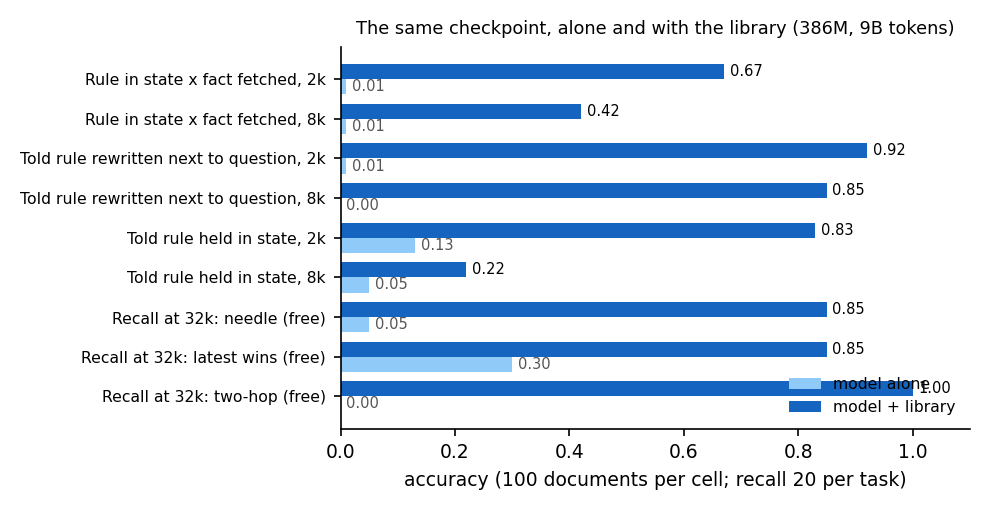
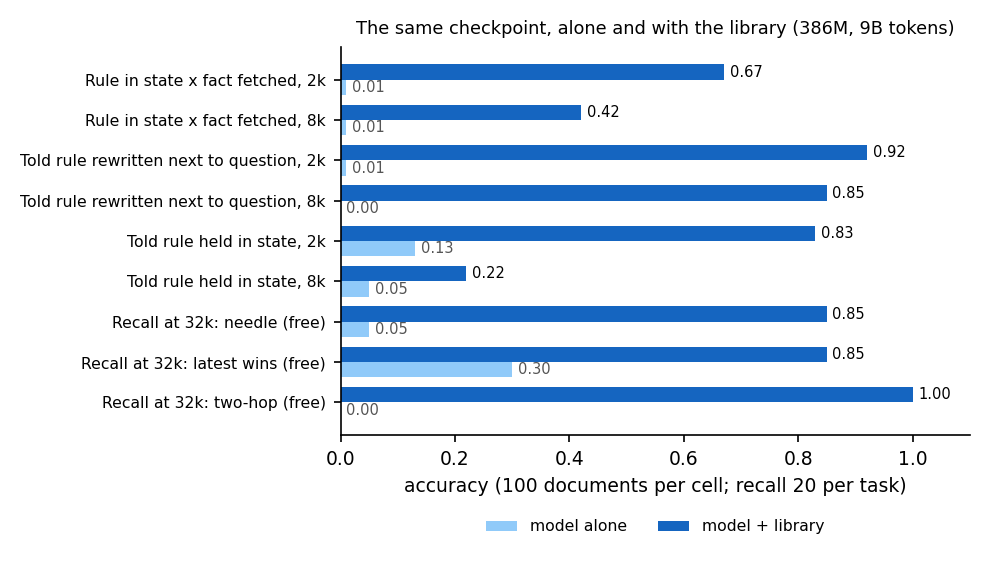
paper fig9: legend below the plot

Changed region(s): [[0.0, 0.0294, 0.9697, 0.9706]]

diff --git a/v16/paper/make_figures.py b/v16/paper/make_figures.py
@@ -160,13 +160,13 @@ def fig9_package():
     c = D["pkg_suite_m9"]["cells"]; names = list(c)
     bare = [c[n]["bare"] for n in names]; pk = [c[n]["package"] for n in names]
     y = np.arange(len(names)); h = 0.38
-    fig, ax = plt.subplots(figsize=(6.6, 3.4))
+    fig, ax = plt.subplots(figsize=(6.6, 3.8))
     ax.barh(y + h / 2, bare, h, color="#90caf9", label="model alone")
     ax.barh(y - h / 2, pk, h, color="#1565c0", label="model + library")
     for i, (b, p) in enumerate(zip(bare, pk)):
         ax.text(p + 0.01, i - h / 2, f"{p:.2f}", va="center", fontsize=7); ax.text(b + 0.01, i + h / 2, f"{b:.2f}", va="center", fontsize=7, color="#555")
     ax.set_yticks(y); ax.set_yticklabels(names, fontsize=7.5); ax.invert_yaxis(); ax.set_xlim(0, 1.1)
-    ax.set_xlabel("accuracy (100 documents per cell; recall 20 per task)"); ax.legend(frameon=False, fontsize=7.5, loc="lower right")
+    ax.set_xlabel("accuracy (100 documents per cell; recall 20 per task)"); ax.legend(frameon=False, fontsize=7.5, loc="upper center", bbox_to_anchor=(0.5, -0.18), ncol=2)
     ax.set_title("The same checkpoint, alone and with the library (386M, 9B tokens)", fontsize=8.5)
     save(fig, "fig9_package")
 
